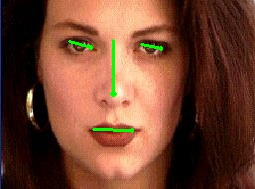
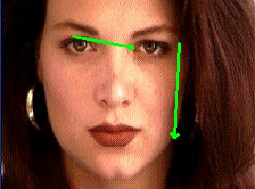
modify warp parameter

Changed region(s): [[0.2471, 0.1587, 0.6588, 0.5291], [0.6588, 0.2116, 0.7137, 0.7407], [0.3569, 0.6614, 0.549, 0.7143]]

diff --git a/hw2/hw2.py b/hw2/hw2.py
@@ -3,6 +3,7 @@ import numpy as np
 import sys
 import threading
 from scipy.ndimage import map_coordinates
+import math
 # Initialize variables for storing points
 drawing = False  # True if the mouse is pressed
 ix, iy = -1, -1  # Initial positions
@@ -32,64 +33,6 @@ def PointInterpolation(v1, v2, ratio=0.5):
     # interpolation of points by finding the midpoint
     return v1 * (1. - ratio) + v2 * ratio
 
-# class Morphing:
-#     def __init__(self, a=0.1, b=2.0, p=0.5):
-#         self.a = a
-#         self.b = b # recommended range: [0.5, 2]
-#         self.p = p # recommended range: [0  , 1]
-
-#     def MultiFeatMorphing(self, X, P, Q, Pp, Qp):
-#         '''
-#             Calculate morphing with multiple feature vectors on 
-#             destination coordinate X. Using numpy as instead of 
-#             for loops saves time.
-#             X  : Destination coordinate         H x W
-#             P  : Feature vector start (desti)   N x 2
-#             Q  : Feature vector end (desti)     N x 2
-#             Pp : Feature vector start (source)  N x 2
-#             Qp : Feature vector end (source)    N x 2
-#         '''
-#         X      = np.repeat(np.expand_dims(X, 2), P.shape[0], axis=2) # HxWxNx2
-#         u      = np.sum((X - P) * (Q - P), axis=-1) / np.linalg.norm(Q - P, ord=2, axis=-1)**2 # HxWxN
-#         v      = np.sum((X - P) * Perpendicular(Q - P), axis=-1) / np.linalg.norm(Q - P, ord=2, axis=-1) # HxWxN
-#         Xp     = Pp + np.repeat(np.expand_dims(u, axis=-1), 2, axis=-1) * (Qp - Pp) \
-#                  + np.repeat(np.expand_dims(v, axis=-1), 2, axis=-1) * Perpendicular(Qp - Pp) \
-#                  / np.repeat(np.linalg.norm(Qp - Pp, ord=2, axis=-1, keepdims=True), 2, axis=-1)
-#         D      = Xp - X # HxWxNx2
-#         dist = np.absolute(v) * (np.greater_equal(u, 0) & np.less_equal(u, 1)) \
-#                 + np.linalg.norm(X - P, ord=2, axis=-1) * (np.less(u, 0)) \
-#                 + np.linalg.norm(X - Q, ord=2, axis=-1) * (np.greater(u, 1))
-
-#         weight = np.power(np.power(np.linalg.norm(Q - P, axis=-1), self.p) / (self.a + dist), self.b)
-#         Xp     = X[:,:,0,:] + np.sum(D * np.repeat(np.expand_dims(weight, axis=3), 2, axis=-1), axis=2) \
-#                  / np.repeat(np.expand_dims(np.sum(weight, axis=-1), axis=2), 2, axis=-1)
-#         Xp = np.around(Xp).astype(int)
-#         Xp[:,:,0] = np.clip(Xp[:,:,0], 0, X.shape[0] - 1)
-#         Xp[:,:,1] = np.clip(Xp[:,:,1], 0, X.shape[1] - 1)
-#         return Xp # HxWx2
-
-#     def TwoImageMorphing(self, 
-#             img_1, img_2, 
-#             P1, Q1, P2, Q2, 
-#             ratio=0.5):
-#         assert img_1.shape == img_2.shape
-#         H, W = img_1.shape[0], img_1.shape[1]
-#         # Interpolate features (destination)
-#         Pd, Qd = PointInterpolation(P1, P2, ratio), PointInterpolation(Q1, Q2, ratio)
-#         # Calculate morphing
-#         X = np.zeros((H, W, 2), dtype=float)
-#         X[:,:,0] = np.expand_dims(np.arange(0, H, dtype=float), axis=1)
-#         X[:,:,1] = np.expand_dims(np.arange(0, W, dtype=float), axis=0)
-#         Xp_1 = self.MultiFeatMorphing(X.copy(), Pd, Qd, P1, Q1)
-#         Xp_2 = self.MultiFeatMorphing(X.copy(), Pd, Qd, P2, Q2)
-#         print("Xp_1 shape:", Xp_1.shape)
-#         print("Xp_2 shape:", Xp_2.shape)
-#         print(Xp_1[:,:,0].shape == Xp_2[:,:,0].shape)
-#         result = img_1[Xp_1[:,:,0],Xp_1[:,:,1],:] * (1. - ratio)
-#         # result = img_1[Xp_1[:,:,0],Xp_1[:,:,1],:] * (1. - ratio) + \
-#         #          img_2[Xp_2[:,:,0],Xp_2[:,:,1],:] * ratio
-        
-#         return result, Pd, Qd
 # Mouse callback function for drawing lines
 def draw_line(event, x, y, flags, param):
     global ix, iy, drawing
@@ -136,100 +79,26 @@ def process_img(image_path, image_title):
     # Start a new thread to show the image
     threading.Thread(target=show_image, args=(img_data,)).start()
 
-def MultiFeatMorphing(X, P, Q, Pp, Qp):
-        '''
-            Calculate morphing with multiple feature vectors on 
-            destination coordinate X. Using numpy as instead of 
-            for loops saves time.
-            X  : Destination coordinate         H x W
-            P  : Feature vector start (desti)   N x 2
-            Q  : Feature vector end (desti)     N x 2
-            Pp : Feature vector start (source)  N x 2
-            Qp : Feature vector end (source)    N x 2
-        '''
-        p=0.5
-        a=0.1
-        b=2
-        X      = np.repeat(np.expand_dims(X, 2), P.shape[0], axis=2) # HxWxNx2
-        u      = np.sum((X - P) * (Q - P), axis=-1) / np.linalg.norm(Q - P, ord=2, axis=-1)**2 # HxWxN
-        v      = np.sum((X - P) * Perpendicular(Q - P), axis=-1) / np.linalg.norm(Q - P, ord=2, axis=-1) # HxWxN
-        Xp     = Pp + np.repeat(np.expand_dims(u, axis=-1), 2, axis=-1) * (Qp - Pp) \
-                 + np.repeat(np.expand_dims(v, axis=-1), 2, axis=-1) * Perpendicular(Qp - Pp) \
-                 / np.repeat(np.linalg.norm(Qp - Pp, ord=2, axis=-1, keepdims=True), 2, axis=-1)
-        D      = Xp - X # HxWxNx2
-        dist = np.absolute(v) * (np.greater_equal(u, 0) & np.less_equal(u, 1)) \
-                + np.linalg.norm(X - P, ord=2, axis=-1) * (np.less(u, 0)) \
-                + np.linalg.norm(X - Q, ord=2, axis=-1) * (np.greater(u, 1))
-
-        weight = np.power(np.power(np.linalg.norm(Q - P, axis=-1), p) / (a + dist), b)
-        Xp     = X[:,:,0,:] + np.sum(D * np.repeat(np.expand_dims(weight, axis=3), 2, axis=-1), axis=2) \
-                 / np.repeat(np.expand_dims(np.sum(weight, axis=-1), axis=2), 2, axis=-1)
-        Xp = np.around(Xp).astype(int)
-        Xp[:,:,0] = np.clip(Xp[:,:,0], 0, X.shape[0] - 1)
-        Xp[:,:,1] = np.clip(Xp[:,:,1], 0, X.shape[1] - 1)
-        return Xp
-
-def TwoImageMorphing(img_1, img_2, P1, Q1, P2, Q2, ratio=0.5):
-        assert img_1.shape == img_2.shape
-        b = 2
-        p = 0.5
-        a = 1
-        eps = 1e-8
-        perp_d = Perpendicular(Q2-P2)
-        perp_s = Perpendicular(Q1-P1)
-        dest_line_vec = Q2-P2
-        source_line_vec = Q1-P1
-        
-        image_size = img_1.shape[0]
-        x, y = np.meshgrid(np.arange(image_size), np.arange(image_size))
-        X_d = np.dstack([x, y])
-        X_d = X_d.reshape(-1, 1, 2)
-        to_p_vec = X_d - P2
-        to_q_vec = X_d - Q2
-        u = np.sum(to_p_vec * dest_line_vec, axis=-1) / (np.sum(dest_line_vec**2, axis=1) + eps)
-        v = np.sum(to_p_vec * perp_d, axis=-1) / (np.sqrt(np.sum(dest_line_vec**2, axis=1)) + eps)
-        X_s = np.expand_dims(P1, 0) + \
-        np.expand_dims(u, -1) * np.expand_dims(source_line_vec, 0) + \
-        np.expand_dims(v, -1) * np.expand_dims(perp_s, 0) / (np.sqrt(np.sum(source_line_vec**2, axis=1)).reshape(1, -1, 1) + eps)
-        D = X_s - X_d
-        to_p_mask = (u < 0).astype(np.float64)
-        to_q_mask = (u > 1).astype(np.float64)
-        to_line_mask = np.ones(to_p_mask.shape) - to_p_mask - to_q_mask
-        
-        to_p_dist = np.sqrt(np.sum(to_p_vec**2, axis=-1))
-        to_q_dist = np.sqrt(np.sum(to_q_vec**2, axis=-1))
-        to_line_dist = np.abs(v)
-        dist = to_p_dist * to_p_mask + to_q_dist * to_q_mask + to_line_dist * to_line_mask
-        dest_line_length = np.sqrt(np.sum(dest_line_vec**2, axis=-1))
-        weight = (dest_line_length**p) / (((a + dist))**b + eps)
-        weighted_D = np.sum(D * np.expand_dims(weight, -1), axis=1) / (np.sum(weight, -1, keepdims=True) + eps)
-
-        X_d = X_d.squeeze()
-        X_s = X_d + weighted_D
-        X_s_ij = X_s[:, ::-1]
-
-        if len(img_1.shape) == 2:
-            warped = map_coordinates(img_1, X_s_ij.T, mode="nearest")
-        else:
-            warped = np.zeros((image_size*image_size, img_1.shape[2]))
-            for i in range(img_1.shape[2]):
-                warped[:, i] = map_coordinates(img_1[:, :, i], X_s_ij.T, mode="nearest")
-        warped = warped.reshape(image_size, image_size, -1).squeeze()
-        return warped.astype(np.uint8)
-
-def get_intermidate_lines(P_1, Q_1, P_2, Q_2, alpha = 0.5):
-    P = P_1 * alpha + P_2 * (1 - alpha)
-    Q = Q_1 * alpha + Q_2 * (1 - alpha)
-    return P, Q
-
-def get_intermediate_face_outline(face1, face2, alpha = 0.5):
-    return face1 * alpha + face2 * (1 - alpha)
-
+def bilinear(img, point, h, w):
+    x, y = point[0], point[1]
+    x1, y1 = math.floor(x), math.floor(y)
+    x2, y2 = math.ceil(x), math.ceil(y)
+    if x2>=h:
+        x2 = h-1
+    if y2>=w:
+        y2 = w-1
+    a, b = x-x1, y-y1
+    # get the color
+    val = (1-a)*(1-b)*img[x1, y1] + a*(1-b) * img[x2, y1] + (1 - a) * b * img[x1, y2] + a * b *img[x2, y2]
+    return val
+    
 def warp(src, dst, P1, Q1, P2, Q2, alpha=0.4):
+    assert len(P1)==len(Q1)==len(P2)==len(Q2)
+    
     
     # print(src.img.shape, dst.img.shape)
-    result, Pd, Qd = TwoImageMorphing(src.img, dst.img, P1, Q1, P2, Q2, ratio=alpha)
-    return result
+    # result, Pd, Qd = v(src.img, dst.img, P1, Q1, P2, Q2, ratio=alpha)
+    # return result
 
 if __name__ == "__main__":
     if len(sys.argv) < 3:
@@ -252,7 +121,6 @@ if __name__ == "__main__":
         
         lines1 = image_data_list[0].lines  # Points from the first image
         lines2 = image_data_list[1].lines  # Points from the second image
-        
         # Make sure we have the same number of lines for morphing
         if len(lines1) != len(lines2):
             print("Error: The number of lines in both images must be the same.")
@@ -263,7 +131,7 @@ if __name__ == "__main__":
             q1 = lines1[i][1]  # Ending point of line in image 1
             p2 = lines2[i][0]  # Starting point of line in image 2
             q2 = lines2[i][1]  # Ending point of line in image 2
-
+            
             P1.append(p1)
             Q1.append(q1)
             P2.append(p2)
@@ -274,13 +142,12 @@ if __name__ == "__main__":
         Q1 = np.array(Q1)
         P2 = np.array(P2)
         Q2 = np.array(Q2)
-
         # print("P1 shape:", P1.shape)
         # print("Q1 shape:", Q1.shape)
         # print("P2 shape:", P2.shape)
         # print("Q2 shape:", Q2.shape)
         # Call the warp function with the points
-        warp(image_data_list[0], image_data_list[1], alpha, P1, Q1, P2, Q2)
+        warp(image_data_list[0], image_data_list[1], P1, Q1, P2, Q2, alpha)
         
     elif len(image_data_list)<=0:
         print(f"Error image data size {len(image_data_list)}")
